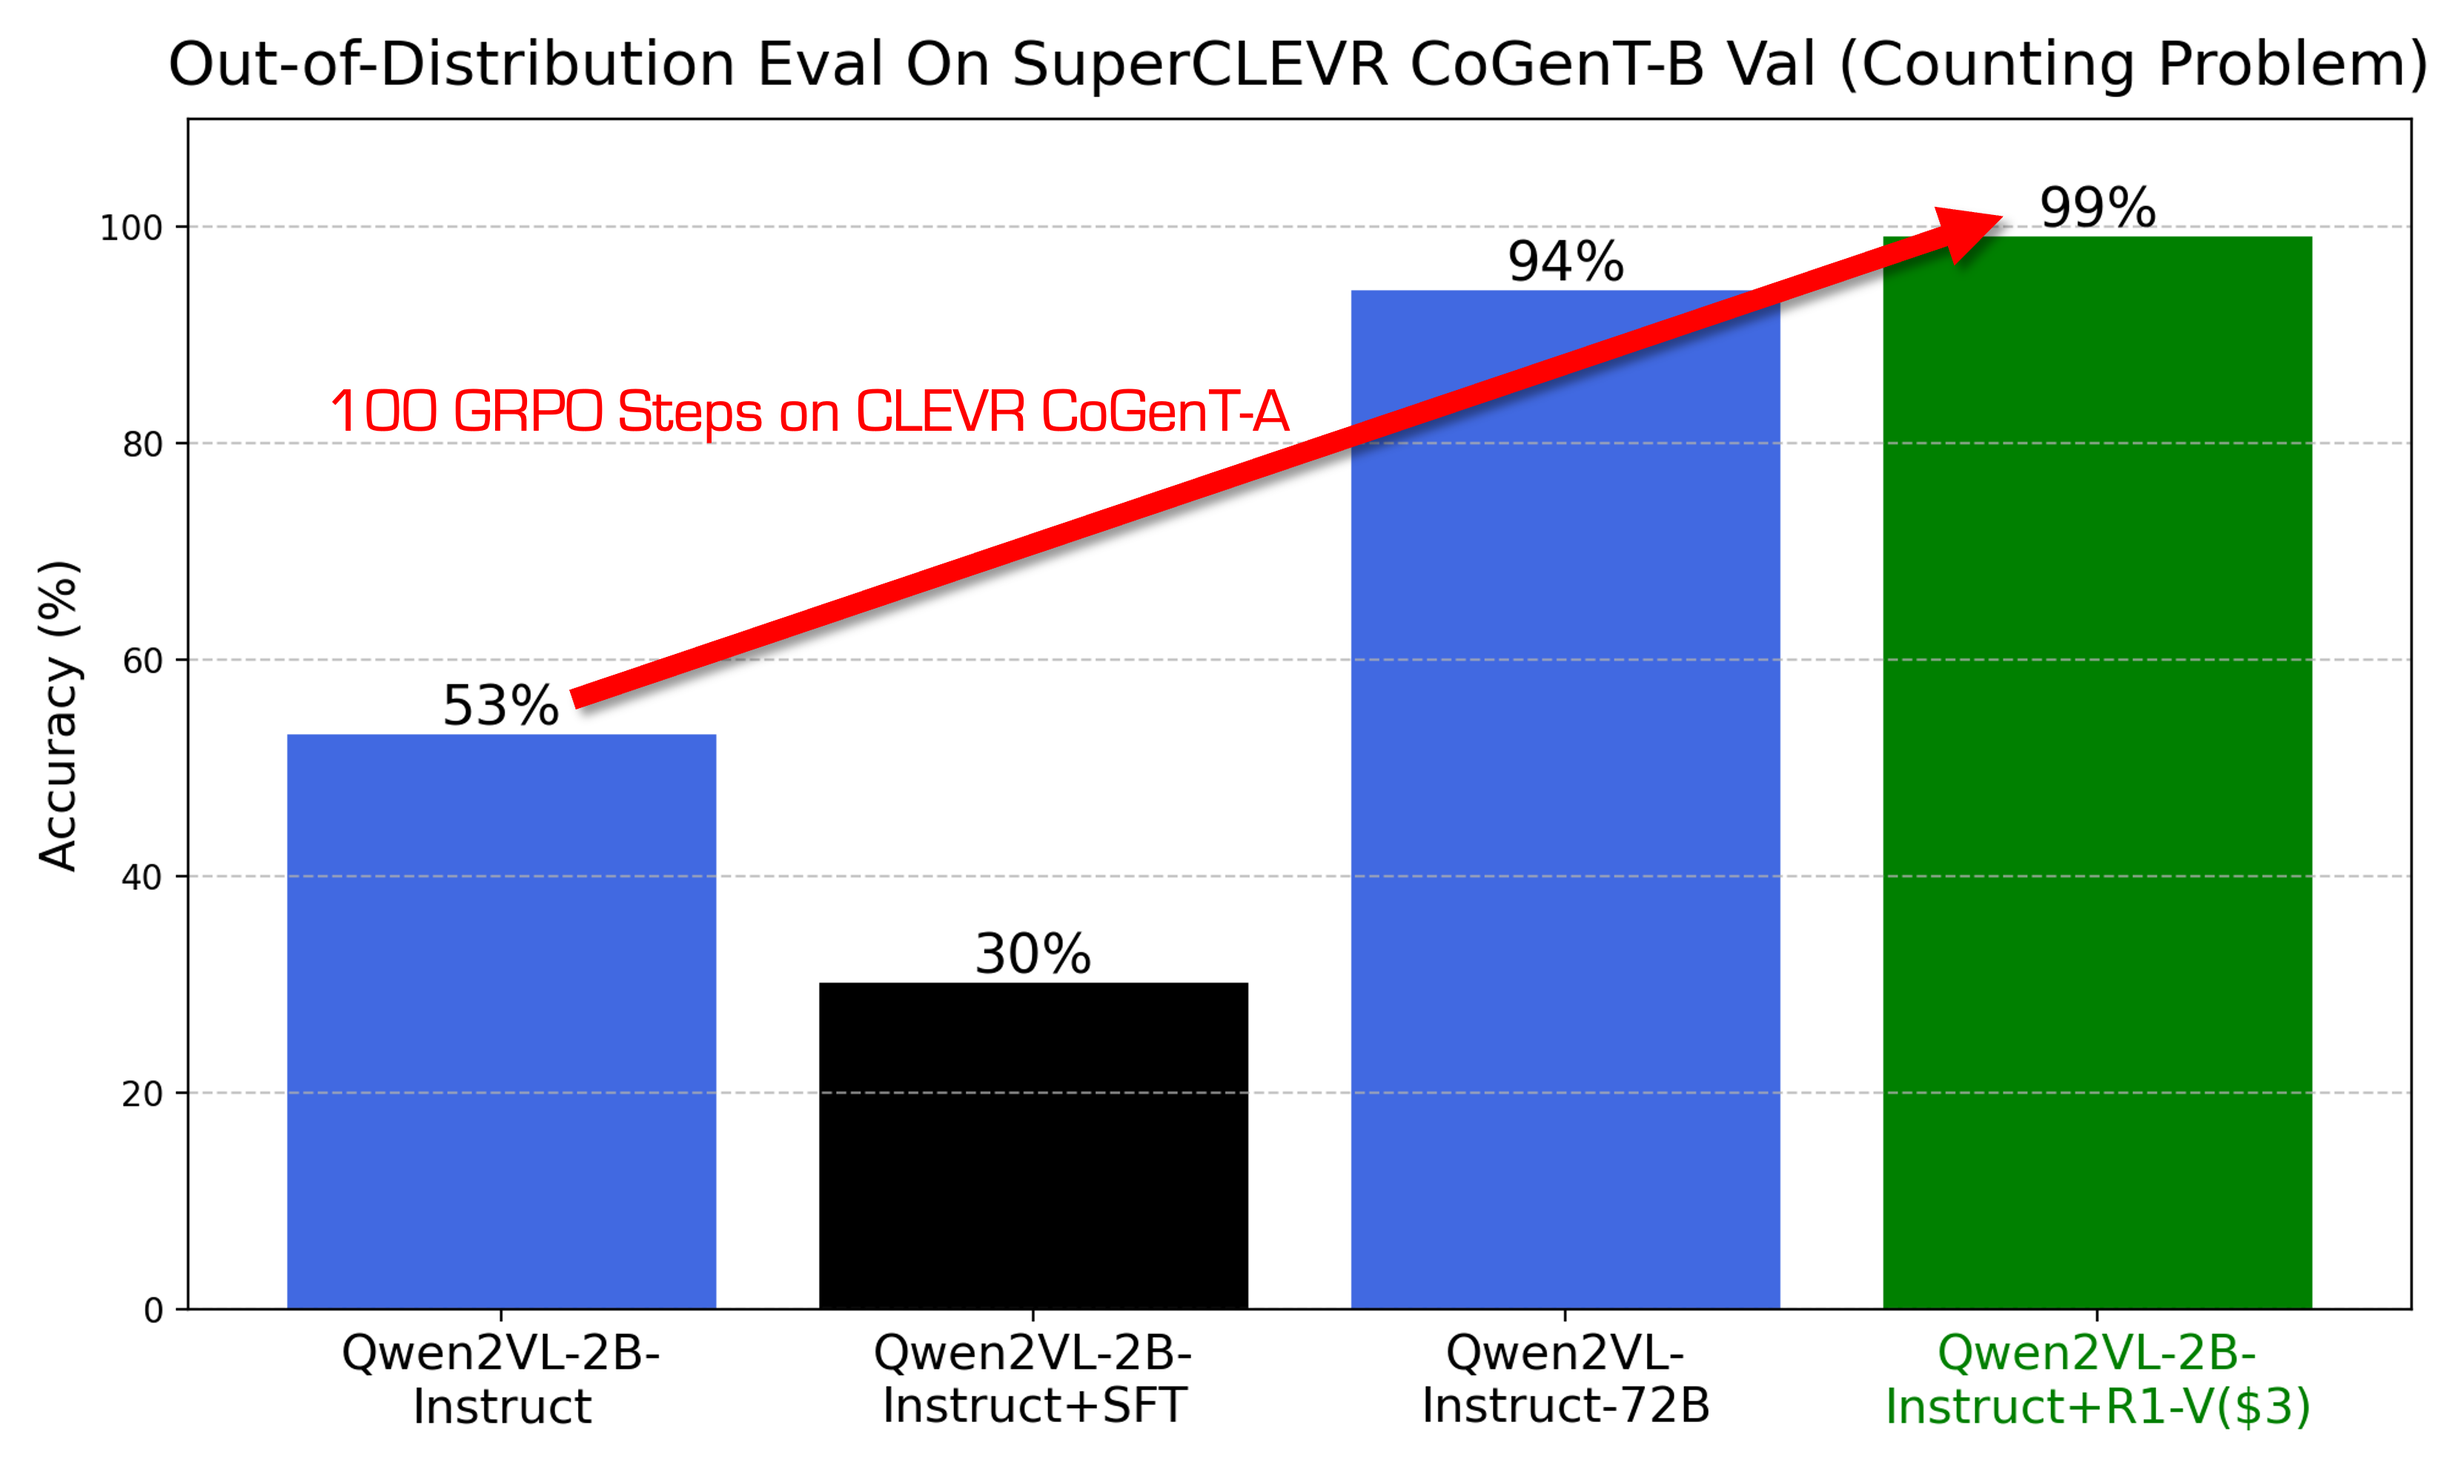
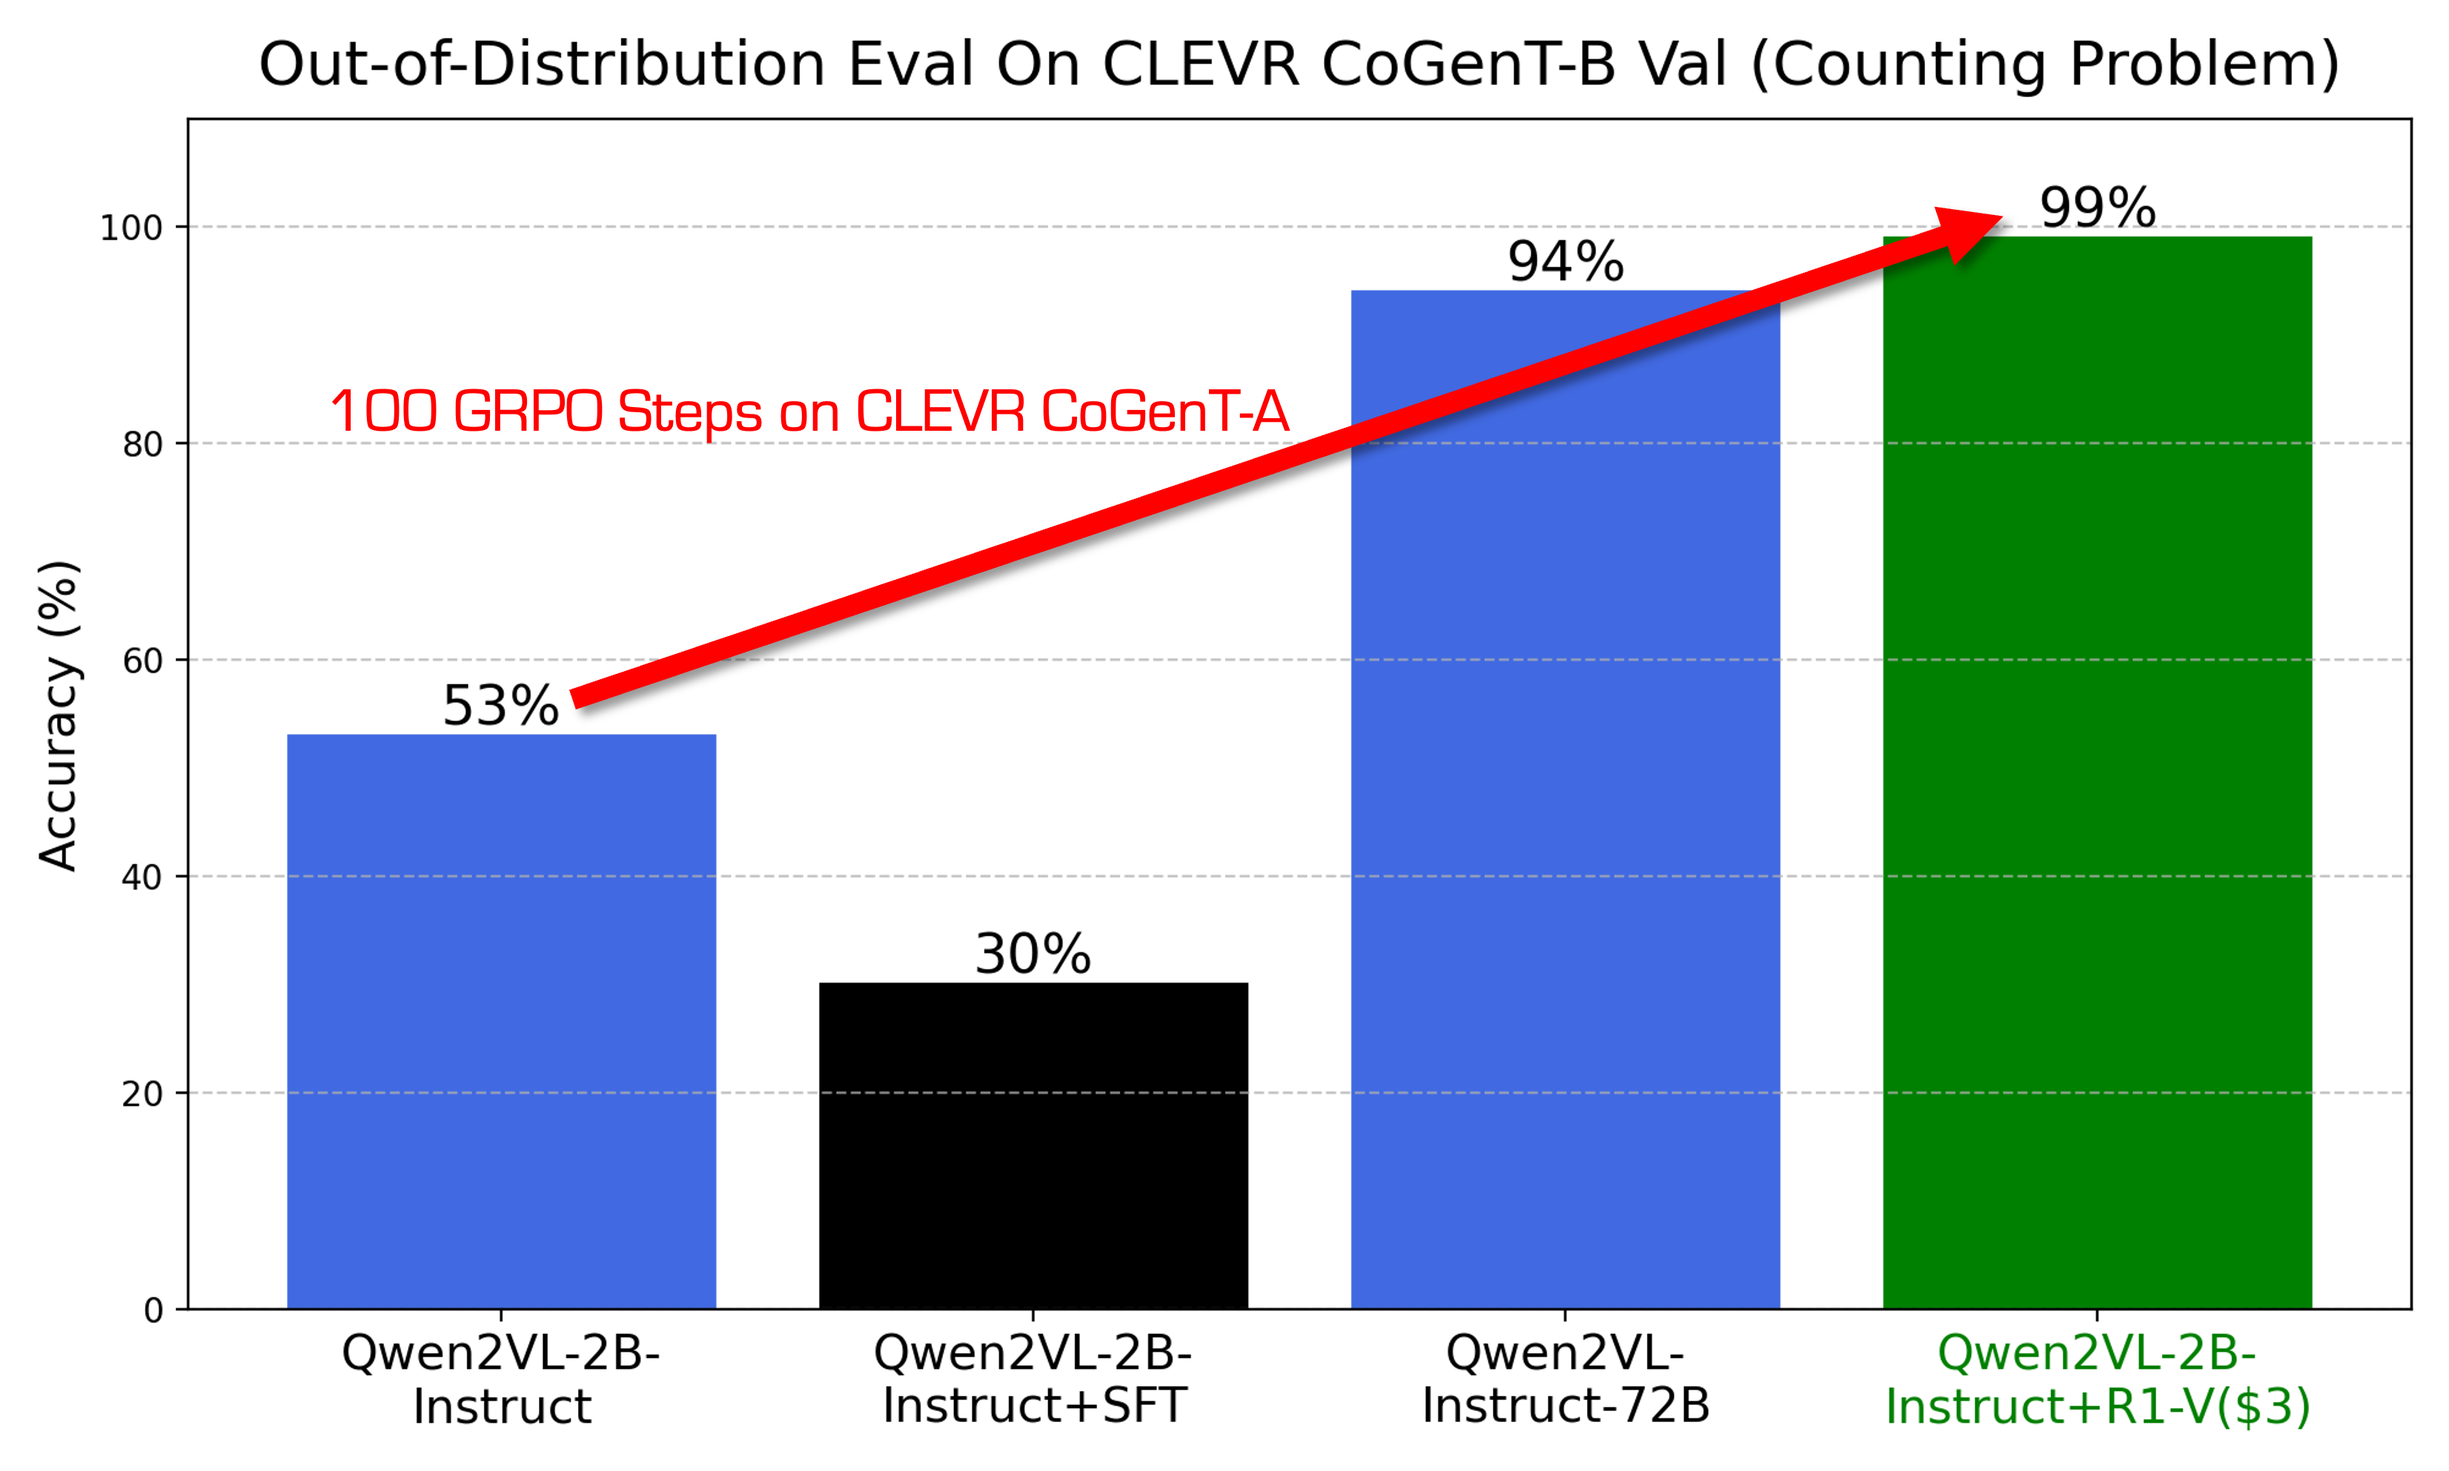
add images

Changed region(s): [[0.0623, 0.0312, 0.9976, 0.0625]]

diff --git a/README.md b/README.md
@@ -1,6 +1,6 @@
 # R1-V: Reinforce Super Generalization Ability in Vision Langauge Models with Less Than $3
 
-*Contributors: Liang Chen, Lei Li, Haozhe Zhao, Yifan Song*
+*Contributors: Liang Chen · Lei Li · Haozhe Zhao · Yifan Song*
 
 1. We firstly reveal that **Reinforcement Learning with Verifiable Rewards (RLVR)** outperforms chain-of-thought supervised fine-tuning (CoT-SFT) in both **effectiveness and out-of-distribution (OOD) robustness** for vision language models.
 
